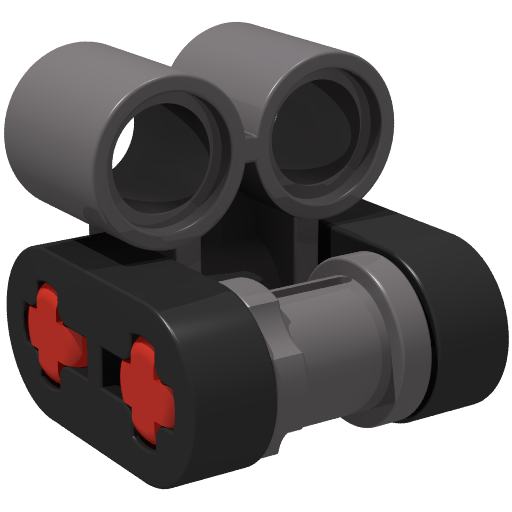
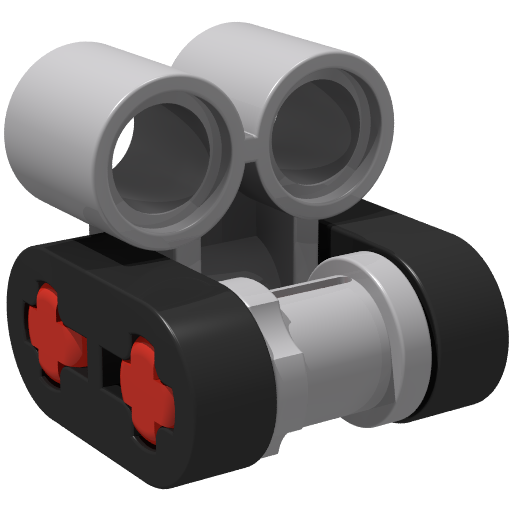
Add mascot image to README and support new "Slate" body style

diff --git a/Klods.Core/MascotBodies.cs b/Klods.Core/MascotBodies.cs
@@ -14,6 +14,7 @@ public static class MascotBodies
     [
         ("classic",  "Classic"),
         ("red",      "Red"),
+        ("slate",    "Slate"),
         ("stealth",  "Stealth"),
         ("shadow",   "Shadow"),
         ("tuxedo",   "Tuxedo"),

diff --git a/README.md b/README.md
@@ -1,3 +1,7 @@
+<p align="center">
+  <img src="docs/klods-mascot.png" alt="KL-0D5, the Klods mascot" width="240"/>
+</p>
+
 # Klods - A Brick Collection Manager 
 
 Welcome to Klods. It's a tool to track your LEGO sets, the bricks you need, the bricks you have, move inventory between sets, link to the official instructions, and inform you what pieces you needed to buy.
